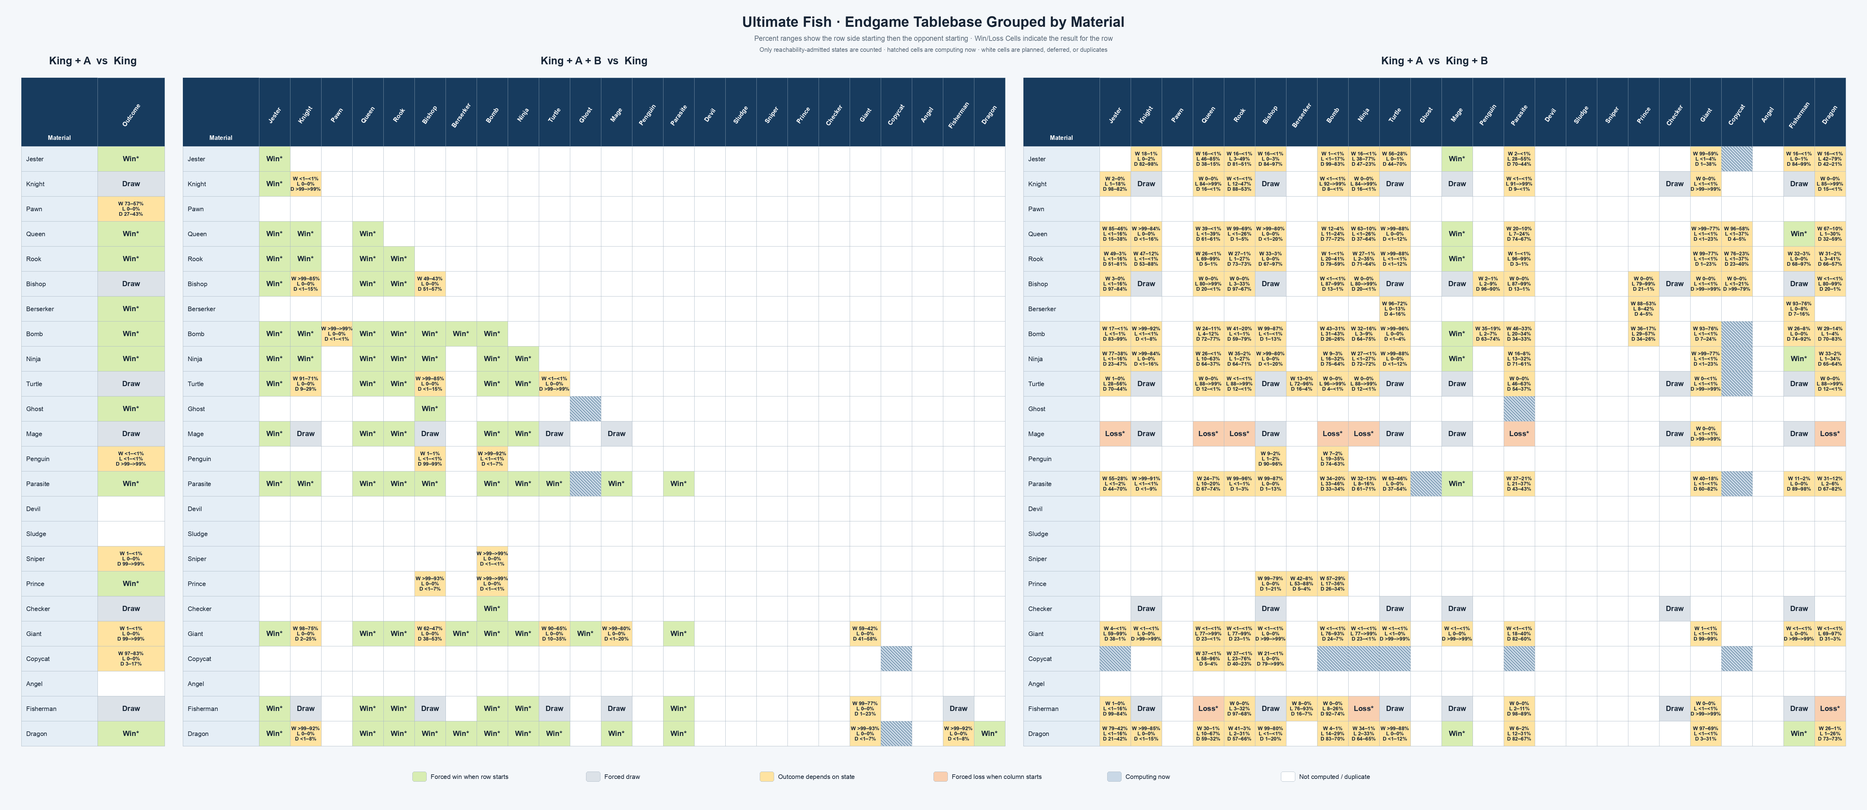
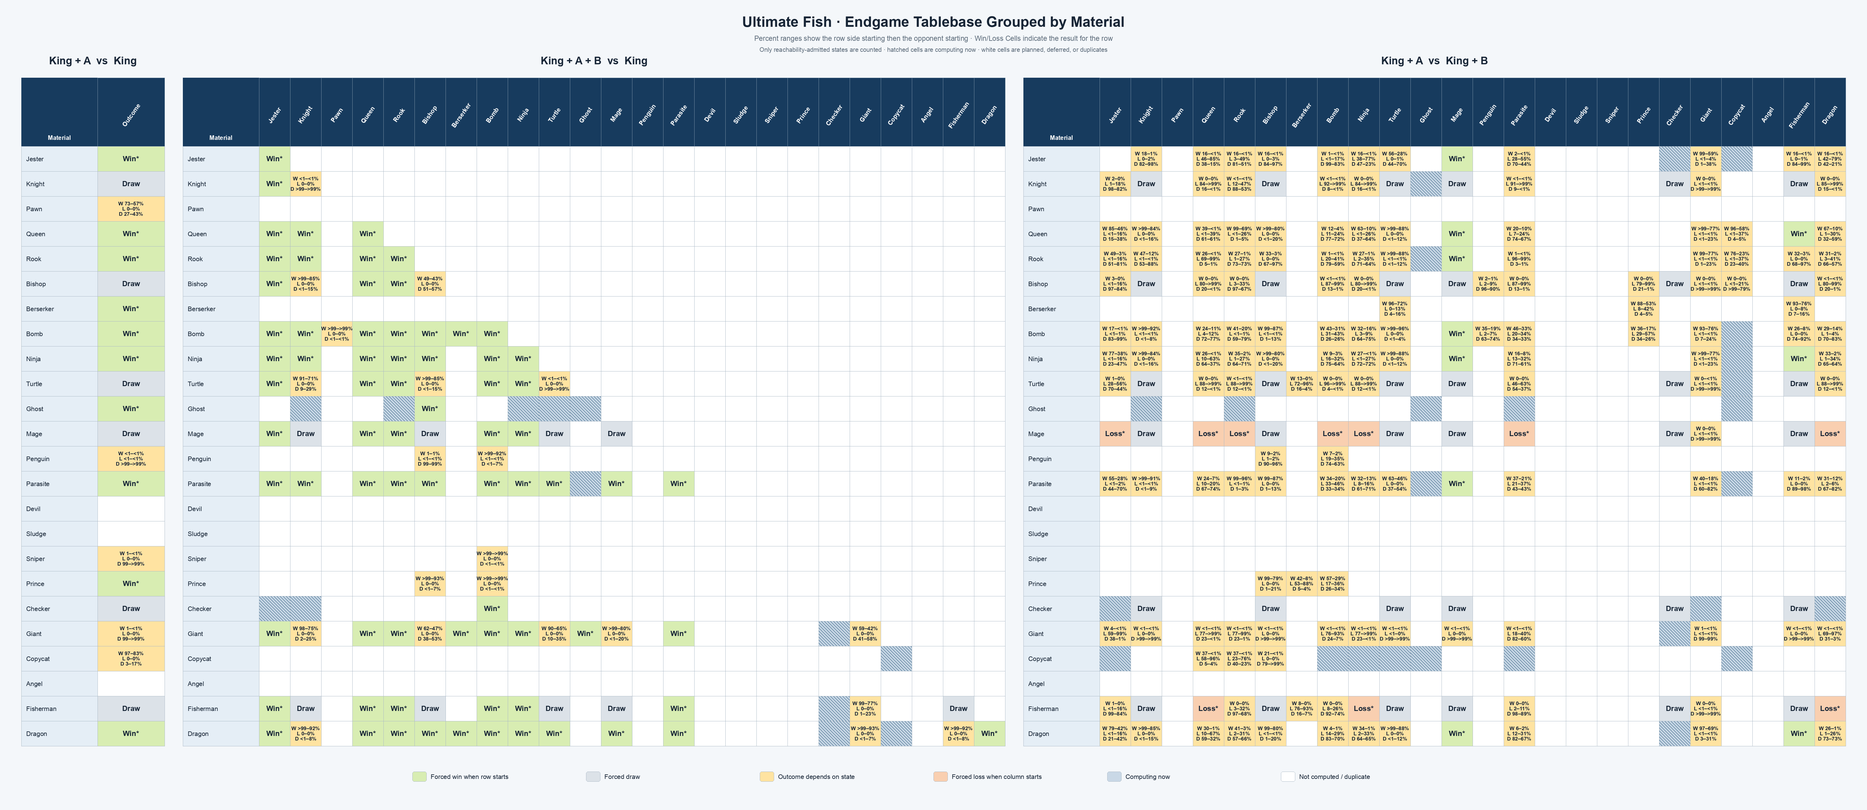
tablebases: reconcile AWS ledger

diff --git a/tablebases/README.md b/tablebases/README.md
@@ -26,7 +26,7 @@ generated exclusively from the canonical ledger below by
 `python3 tools/plot_ultimate_tablebases.py`.
 
 <!-- COMPUTATION_LEDGER_START -->
-Ledger totals: **12 certified**, **186 preserving**, **19 computing**, **34 exact draws**, **221 planned**, **5 blocked**, and **147 deferred**; 624 unique material classes.
+Ledger totals: **12 certified**, **186 preserving**, **36 computing**, **34 exact draws**, **204 planned**, **5 blocked**, and **147 deferred**; 624 unique material classes.
 
 | Key | Class | Domain | File | Status | Indexed states | Result domain | First starts W / L / D | Second starts W / L / D | Reachable / unreachable (first; second) | Canonical storage |
 | --- | --- | --- | --- | --- | ---: | --- | ---: | ---: | ---: | --- |
@@ -72,7 +72,7 @@ Ledger totals: **12 certified**, **186 preserving**, **19 computing**, **34 exac
 | `same:jester+sludge` | King+Jester+Sludge vs King | same | — | **DEFERRED** | — | concrete | — | — | — | — |
 | `same:jester+sniper` | King+Jester+Sniper vs King | same | `kjestersniperk.uftb` | **PLANNED** | 151,831,680 | concrete | — | — | — | — |
 | `same:jester+prince` | King+Jester+Prince vs King | same | `kjesterprincek.uftb` | **PLANNED** | 75,915,840 | concrete | — | — | — | — |
-| `same:jester+checker` | King+Jester+Checker vs King | same | `kjestercheckerk.uftb` | **PLANNED** | 151,831,680 | concrete | — | — | — | — |
+| `same:jester+checker` | King+Jester+Checker vs King | same | `kjestercheckerk.uftb` | **COMPUTING** | 151,831,680 | concrete | — | — | — | — |
 | `same:jester+giant` | King+Jester+Giant vs King | same | `kjestergiantk.uftb` | **PRESERVING** | 37,957,920 | information v2 | 9,347,536 (3,939,164) / 0 / 0 (5,692,260) | 260,316 / 11,300,932 / 1,725,452 (5,692,260) | 9,347,536 / 9,631,424; 13,286,700 / 5,692,260 | S3 preservation pending |
 | `same:jester+copycat` | King+Jester+Copycat vs King | same | `kcopycatjesterk.uftb` | **COMPUTING** | 75,915,840 | concrete | — | — | — | — |
 | `same:jester+angel` | King+Jester+Angel vs King | same | — | **DEFERRED** | — | concrete | — | — | — | — |
@@ -87,7 +87,7 @@ Ledger totals: **12 certified**, **186 preserving**, **19 computing**, **34 exac
 | `same:knight+bomb` | King+Knight+Bomb vs King | same | `kknightbombk.uftb` | **PRESERVING** | 37,957,920 | concrete | 14,179,200 (4,799,760) / 0 / 0 | 0 (1,609,608) / 17,269,780 (67,760) / 31,812 | 14,179,200 / 4,799,760; 17,301,592 / 1,677,368 | S3 preservation pending |
 | `same:knight+ninja` | King+Knight+Ninja vs King | same | `kknightninjak.uftb` | **PRESERVING** | 37,957,920 | concrete | 12,797,612 (6,181,348) / 0 / 0 | 0 (1,609,608) / 16,000,796 / 1,368,556 | 12,797,612 / 6,181,348; 17,369,352 / 1,609,608 | S3 preservation pending |
 | `same:knight+turtle` | King+Knight+Turtle vs King | same | `kknightturtlek.uftb` | **PRESERVING** | 37,957,920 | concrete | 14,093,700 (3,538,608) / 0 / 1,346,652 | 0 (1,609,608) / 12,261,896 / 5,107,456 | 15,440,352 / 3,538,608; 17,369,352 / 1,609,608 | S3 preservation pending |
-| `same:knight+ghost` | King+Knight+Ghost vs King | same | `kknightghostk.uftb` | **PLANNED** | 75,915,840 | concrete | — | — | — | — |
+| `same:knight+ghost` | King+Knight+Ghost vs King | same | `kknightghostk.uftb` | **COMPUTING** | 75,915,840 | concrete | — | — | — | — |
 | `same:knight+mage` | King+Knight+Mage vs King | same | — | **DRAW** | — | insufficient material | 0 / 0 / 1 | 0 / 0 / 1 | closed-form draw | — |
 | `same:knight+penguin` | King+Knight+Penguin vs King | same | `kknightpenguink.uftb` | **PLANNED** | 303,663,360 | concrete | — | — | — | — |
 | `same:knight+parasite` | King+Knight+Parasite vs King | same | `kknightparasitek.uftb` | **PRESERVING** | 37,957,920 | concrete | 14,798,084 (4,180,876) / 0 / 0 | 0 (1,609,608) / 17,364,220 / 5,132 | 14,798,084 / 4,180,876; 17,369,352 / 1,609,608 | S3 preservation pending |
@@ -95,7 +95,7 @@ Ledger totals: **12 certified**, **186 preserving**, **19 computing**, **34 exac
 | `same:knight+sludge` | King+Knight+Sludge vs King | same | — | **DEFERRED** | — | concrete | — | — | — | — |
 | `same:knight+sniper` | King+Knight+Sniper vs King | same | `kknightsniperk.uftb` | **PLANNED** | 151,831,680 | concrete | — | — | — | — |
 | `same:knight+prince` | King+Knight+Prince vs King | same | `kknightprincek.uftb` | **PLANNED** | 75,915,840 | concrete | — | — | — | — |
-| `same:knight+checker` | King+Knight+Checker vs King | same | `kknightcheckerk.uftb` | **PLANNED** | 151,831,680 | concrete | — | — | — | — |
+| `same:knight+checker` | King+Knight+Checker vs King | same | `kknightcheckerk.uftb` | **COMPUTING** | 151,831,680 | concrete | — | — | — | — |
 | `same:knight+giant` | King+Knight+Giant vs King | same | `kknightgiantk.uftb` | **PRESERVING** | 37,957,920 | concrete | 9,415,136 (3,665,112) / 0 / 206,452 (5,692,260) | 0 (1,142,116) / 9,132,192 / 3,012,392 (5,692,260) | 9,621,588 / 9,357,372; 12,144,584 / 6,834,376 | S3 preservation pending |
 | `same:knight+copycat` | King+Knight+Copycat vs King | same | `kcopycatknightk.uftb` | **PLANNED** | 75,915,840 | concrete | — | — | — | — |
 | `same:knight+angel` | King+Knight+Angel vs King | same | — | **DEFERRED** | — | concrete | — | — | — | — |
@@ -150,7 +150,7 @@ Ledger totals: **12 certified**, **186 preserving**, **19 computing**, **34 exac
 | `same:rook+bomb` | King+Rook+Bomb vs King | same | `krookbombk.uftb` | **PRESERVING** | 37,957,920 | concrete | 12,221,516 (6,757,444) / 0 / 0 | 0 (1,609,608) / 17,242,972 (67,760) / 58,620 | 12,221,516 / 6,757,444; 17,301,592 / 1,677,368 | S3 preservation pending |
 | `same:rook+ninja` | King+Rook+Ninja vs King | same | `krookninjak.uftb` | **PRESERVING** | 37,957,920 | concrete | 11,008,382 (7,970,578) / 0 / 0 | 0 (1,609,608) / 17,271,872 / 97,480 | 11,008,382 / 7,970,578; 17,369,352 / 1,609,608 | S3 preservation pending |
 | `same:rook+turtle` | King+Rook+Turtle vs King | same | `krookturtlek.uftb` | **PRESERVING** | 37,957,920 | concrete | 13,353,634 (5,625,326) / 0 / 0 | 0 (1,609,608) / 16,000,700 / 1,368,652 | 13,353,634 / 5,625,326; 17,369,352 / 1,609,608 | S3 preservation pending |
-| `same:rook+ghost` | King+Rook+Ghost vs King | same | `krookghostk.uftb` | **PLANNED** | 75,915,840 | concrete | — | — | — | — |
+| `same:rook+ghost` | King+Rook+Ghost vs King | same | `krookghostk.uftb` | **COMPUTING** | 75,915,840 | concrete | — | — | — | — |
 | `same:rook+mage` | King+Rook+Mage vs King | same | `krookmagek.uftb` | **PRESERVING** | 37,957,920 | concrete | 14,027,524 (4,951,436) / 0 / 0 | 0 (1,609,608) / 15,950,608 / 1,418,744 | 14,027,524 / 4,951,436; 17,369,352 / 1,609,608 | S3 preservation pending |
 | `same:rook+penguin` | King+Rook+Penguin vs King | same | `krookpenguink.uftb` | **PLANNED** | 303,663,360 | concrete | — | — | — | — |
 | `same:rook+parasite` | King+Rook+Parasite vs King | same | `krookparasitek.uftb` | **PRESERVING** | 37,957,920 | concrete | 12,797,700 (6,181,260) / 0 / 0 | 0 (1,609,608) / 17,360,968 / 8,384 | 12,797,700 / 6,181,260; 17,369,352 / 1,609,608 | S3 preservation pending |
@@ -220,7 +220,7 @@ Ledger totals: **12 certified**, **186 preserving**, **19 computing**, **34 exac
 | `same:bomb+dragon` | King+Bomb+Dragon vs King | same | `kbombdragonk.uftb` | **PRESERVING** | 37,957,920 | concrete | 12,346,586 (6,632,374) / 0 / 0 | 0 (1,609,608) / 17,256,790 (67,760) / 44,802 | 12,346,586 / 6,632,374; 17,301,592 / 1,677,368 | S3 preservation pending |
 | `same:ninja+ninja` | King+2 Ninjas vs King | same | `kninjaninjak.uftb` | **PRESERVING** | 18,978,960 | concrete | 5,424,306 (4,065,174) / 0 / 0 | 0 (804,804) / 8,609,904 / 74,772 | 5,424,306 / 4,065,174; 8,684,676 / 804,804 | S3 preservation pending |
 | `same:ninja+turtle` | King+Ninja+Turtle vs King | same | `kninjaturtlek.uftb` | **PRESERVING** | 37,957,920 | concrete | 13,095,300 (5,883,660) / 0 / 0 | 0 (1,609,608) / 15,961,482 / 1,407,870 | 13,095,300 / 5,883,660; 17,369,352 / 1,609,608 | S3 preservation pending |
-| `same:ninja+ghost` | King+Ninja+Ghost vs King | same | `kninjaghostk.uftb` | **PLANNED** | 75,915,840 | concrete | — | — | — | — |
+| `same:ninja+ghost` | King+Ninja+Ghost vs King | same | `kninjaghostk.uftb` | **COMPUTING** | 75,915,840 | concrete | — | — | — | — |
 | `same:ninja+mage` | King+Ninja+Mage vs King | same | `kninjamagek.uftb` | **PRESERVING** | 37,957,920 | concrete | 13,719,860 (5,259,100) / 0 / 0 | 0 (1,609,608) / 15,914,976 / 1,454,376 | 13,719,860 / 5,259,100; 17,369,352 / 1,609,608 | S3 preservation pending |
 | `same:ninja+penguin` | King+Ninja+Penguin vs King | same | `kninjapenguink.uftb` | **PLANNED** | 303,663,360 | concrete | — | — | — | — |
 | `same:ninja+parasite` | King+Ninja+Parasite vs King | same | `kninjaparasitek.uftb` | **PRESERVING** | 37,957,920 | concrete | 12,548,400 (6,430,560) / 0 / 0 | 0 (1,609,608) / 17,313,736 / 55,616 | 12,548,400 / 6,430,560; 17,369,352 / 1,609,608 | S3 preservation pending |
@@ -235,7 +235,7 @@ Ledger totals: **12 certified**, **186 preserving**, **19 computing**, **34 exac
 | `same:ninja+fisherman` | King+Ninja+Fisherman vs King | same | `kninjafishermank.uftb` | **PRESERVING** | 37,957,920 | concrete | 13,719,860 (5,259,100) / 0 / 0 | 0 (1,609,608) / 15,914,976 / 1,454,376 | 13,719,860 / 5,259,100; 17,369,352 / 1,609,608 | S3 preservation pending |
 | `same:ninja+dragon` | King+Ninja+Dragon vs King | same | `kninjadragonk.uftb` | **PRESERVING** | 37,957,920 | concrete | 11,131,336 (7,847,624) / 0 / 0 | 0 (1,609,608) / 17,252,356 / 116,996 | 11,131,336 / 7,847,624; 17,369,352 / 1,609,608 | S3 preservation pending |
 | `same:turtle+turtle` | King+2 Turtles vs King | same | `kturtleturtlek.uftb` | **PRESERVING** | 18,978,960 | concrete | 440 (1,578,876) / 0 / 7,910,164 | 0 (804,804) / 416 / 8,684,260 | 7,910,604 / 1,578,876; 8,684,676 / 804,804 | S3 preservation pending |
-| `same:turtle+ghost` | King+Turtle+Ghost vs King | same | `kturtleghostk.uftb` | **PLANNED** | 75,915,840 | concrete | — | — | — | — |
+| `same:turtle+ghost` | King+Turtle+Ghost vs King | same | `kturtleghostk.uftb` | **COMPUTING** | 75,915,840 | concrete | — | — | — | — |
 | `same:turtle+mage` | King+Turtle+Mage vs King | same | — | **DRAW** | — | insufficient material | 0 / 0 / 1 | 0 / 0 / 1 | closed-form draw | — |
 | `same:turtle+penguin` | King+Turtle+Penguin vs King | same | `kturtlepenguink.uftb` | **PLANNED** | 303,663,360 | concrete | — | — | — | — |
 | `same:turtle+parasite` | King+Turtle+Parasite vs King | same | `kturtleparasitek.uftb` | **PRESERVING** | 37,957,920 | concrete | 15,158,912 (3,820,048) / 0 / 0 | 0 (1,609,608) / 17,364,876 / 4,476 | 15,158,912 / 3,820,048; 17,369,352 / 1,609,608 | S3 preservation pending |
@@ -259,7 +259,7 @@ Ledger totals: **12 certified**, **186 preserving**, **19 computing**, **34 exac
 | `same:ghost+prince` | King+Ghost+Prince vs King | same | `kghostprincek.uftb` | **PLANNED** | 151,831,680 | concrete | — | — | — | — |
 | `same:ghost+checker` | King+Ghost+Checker vs King | same | `kghostcheckerk.uftb` | **PLANNED** | 303,663,360 | concrete | — | — | — | — |
 | `same:ghost+giant` | King+Ghost+Giant vs King | same | `kghostgiantk.uftb` | **CERTIFIED** | 75,915,840 | information v2 | 19,660,036 (6,913,364) / 0 / 0 (11,384,520) | 0 (2,284,232) / 22,395,792 (1,049,920) / 842,184 (11,385,792) | 19,660,036 / 18,297,884; 23,237,976 / 14,719,944 | S3 info `12e08614…` / `ipoEi8SHEt7PTaYiM0B2WjJEXiW.ZPS6` |
-| `same:ghost+copycat` | King+Ghost+Copycat vs King | same | `kcopycatghostk.uftb` | **PLANNED** | 151,831,680 | concrete | — | — | — | — |
+| `same:ghost+copycat` | King+Ghost+Copycat vs King | same | `kcopycatghostk.uftb` | **COMPUTING** | 151,831,680 | concrete | — | — | — | — |
 | `same:ghost+angel` | King+Ghost+Angel vs King | same | — | **DEFERRED** | — | concrete | — | — | — | — |
 | `same:ghost+fisherman` | King+Ghost+Fisherman vs King | same | `kghostfishermank.uftb` | **PLANNED** | 75,915,840 | information required | — | — | — | — |
 | `same:ghost+dragon` | King+Ghost+Dragon vs King | same | `kghostdragonk.uftb` | **PLANNED** | 75,915,840 | information required | — | — | — | — |
@@ -334,11 +334,11 @@ Ledger totals: **12 certified**, **186 preserving**, **19 computing**, **34 exac
 | `same:prince+fisherman` | King+Prince+Fisherman vs King | same | `kprincefishermank.uftb` | **PLANNED** | 75,915,840 | concrete | — | — | — | — |
 | `same:prince+dragon` | King+Prince+Dragon vs King | same | `kprincedragonk.uftb` | **PLANNED** | 75,915,840 | concrete | — | — | — | — |
 | `same:checker+checker` | King+2 Checkers vs King | same | `kcheckercheckerk.uftb` | **PLANNED** | 303,663,360 | concrete | — | — | — | — |
-| `same:checker+giant` | King+Checker+Giant vs King | same | `kcheckergiantk.uftb` | **PLANNED** | 151,831,680 | concrete | — | — | — | — |
+| `same:checker+giant` | King+Checker+Giant vs King | same | `kcheckergiantk.uftb` | **COMPUTING** | 151,831,680 | concrete | — | — | — | — |
 | `same:checker+copycat` | King+Checker+Copycat vs King | same | `kcopycatcheckerk.uftb` | **PLANNED** | 303,663,360 | concrete | — | — | — | — |
 | `same:checker+angel` | King+Checker+Angel vs King | same | — | **DEFERRED** | — | concrete | — | — | — | — |
-| `same:checker+fisherman` | King+Checker+Fisherman vs King | same | `kcheckerfishermank.uftb` | **PLANNED** | 151,831,680 | concrete | — | — | — | — |
-| `same:checker+dragon` | King+Checker+Dragon vs King | same | `kcheckerdragonk.uftb` | **PLANNED** | 151,831,680 | concrete | — | — | — | — |
+| `same:checker+fisherman` | King+Checker+Fisherman vs King | same | `kcheckerfishermank.uftb` | **COMPUTING** | 151,831,680 | concrete | — | — | — | — |
+| `same:checker+dragon` | King+Checker+Dragon vs King | same | `kcheckerdragonk.uftb` | **COMPUTING** | 151,831,680 | concrete | — | — | — | — |
 | `same:giant+giant` | King+2 Giants vs King | same | `kgiantgiantk.uftb` | **PRESERVING** | 18,978,960 | concrete | 1,713,626 (1,555,208) / 0 / 1,196,498 (5,024,148) | 0 (389,094) / 1,722,850 / 2,353,388 (5,024,148) | 2,910,124 / 6,579,356; 4,076,238 / 5,413,242 | S3 preservation pending |
 | `same:giant+copycat` | King+Giant+Copycat vs King | same | `kcopycatgiantk.uftb` | **COMPUTING** | 75,915,840 | concrete | — | — | — | — |
 | `same:giant+angel` | King+Giant+Angel vs King | same | — | **DEFERRED** | — | concrete | — | — | — | — |
@@ -372,7 +372,7 @@ Ledger totals: **12 certified**, **186 preserving**, **19 computing**, **34 exac
 | `opposed:jester+sludge` | King+Jester vs King+Sludge | opposed | — | **DEFERRED** | — | concrete | — | — | — | — |
 | `opposed:jester+sniper` | King+Jester vs King+Sniper | opposed | `kjesterksniper.uftb` | **PLANNED** | 151,831,680 | concrete | — | — | — | — |
 | `opposed:jester+prince` | King+Jester vs King+Prince | opposed | `kjesterkprince.uftb` | **PLANNED** | 75,915,840 | concrete | — | — | — | — |
-| `opposed:jester+checker` | King+Jester vs King+Checker | opposed | `kjesterkchecker.uftb` | **PLANNED** | 151,831,680 | concrete | — | — | — | — |
+| `opposed:jester+checker` | King+Jester vs King+Checker | opposed | `kjesterkchecker.uftb` | **COMPUTING** | 151,831,680 | concrete | — | — | — | — |
 | `opposed:jester+giant` | King+Jester vs King+Giant | opposed | `kjesterkgiant.uftb` | **PRESERVING** | 37,957,920 | information v2 | 10,988,108 (2,193,308) / 32 / 105,252 (5,692,260) | 516,144 / 7,775,374 / 4,995,182 (5,692,260) | 11,093,392 / 7,885,568; 13,286,700 / 5,692,260 | S3 preservation pending |
 | `opposed:jester+copycat` | King+Jester vs King+Copycat | opposed | `kcopycatkjester.uftb` | **COMPUTING** | 75,915,840 | concrete | — | — | — | — |
 | `opposed:jester+angel` | King+Jester vs King+Angel | opposed | — | **DEFERRED** | — | concrete | — | — | — | — |
@@ -387,7 +387,7 @@ Ledger totals: **12 certified**, **186 preserving**, **19 computing**, **34 exac
 | `opposed:knight+bomb` | King+Knight vs King+Bomb | opposed | `kknightkbomb.uftb` | **PRESERVING** | 37,957,920 | concrete | 264 (2,903,040) / 14,748,000 (62,768) / 1,264,888 | 15,062,940 (3,846,020) / 52 / 69,944 (4) | 16,013,152 / 2,965,808; 15,132,936 / 3,846,024 | S3 preservation pending |
 | `opposed:knight+ninja` | King+Knight vs King+Ninja | opposed | `kknightkninja.uftb` | **PRESERVING** | 37,957,920 | concrete | 0 (2,808,960) / 13,522,364 / 2,647,636 | 13,657,124 (5,259,100) / 0 / 62,736 | 16,170,000 / 2,808,960; 13,719,860 / 5,259,100 | S3 preservation pending |
 | `opposed:knight+turtle` | King+Knight vs King+Turtle | opposed | — | **DRAW** | — | insufficient material | 0 / 0 / 1 | 0 / 0 / 1 | closed-form draw | — |
-| `opposed:knight+ghost` | King+Knight vs King+Ghost | opposed | `kknightkghost.uftb` | **PLANNED** | 75,915,840 | concrete | — | — | — | — |
+| `opposed:knight+ghost` | King+Knight vs King+Ghost | opposed | `kknightkghost.uftb` | **COMPUTING** | 75,915,840 | concrete | — | — | — | — |
 | `opposed:knight+mage` | King+Knight vs King+Mage | opposed | — | **DRAW** | — | insufficient material | 0 / 0 / 1 | 0 / 0 / 1 | closed-form draw | — |
 | `opposed:knight+penguin` | King+Knight vs King+Penguin | opposed | `kknightkpenguin.uftb` | **PLANNED** | 303,663,360 | concrete | — | — | — | — |
 | `opposed:knight+parasite` | King+Knight vs King+Parasite | opposed | `kknightkparasite.uftb` | **PRESERVING** | 37,957,920 | concrete | 20 (2,808,960) / 14,791,096 / 1,378,884 | 15,817,696 (3,093,244) / 4 / 68,016 | 16,170,000 / 2,808,960; 15,885,716 / 3,093,244 | S3 preservation pending |
@@ -450,7 +450,7 @@ Ledger totals: **12 certified**, **186 preserving**, **19 computing**, **34 exac
 | `opposed:rook+bomb` | King+Rook vs King+Bomb | opposed | `krookkbomb.uftb` | **PRESERVING** | 37,957,920 | concrete | 91,214 (5,176,766) / 2,816,466 (54,846) / 10,838,228 (1,440) | 6,144,700 (3,844,836) / 15,106 (8) / 8,973,130 (1,180) | 13,745,908 / 5,233,052; 15,132,936 / 3,846,024 | S3 preservation pending |
 | `opposed:rook+ninja` | King+Rook vs King+Ninja | opposed | `krookkninja.uftb` | **PRESERVING** | 37,957,920 | concrete | 3,833,886 (4,951,436) / 275,140 / 9,918,498 | 4,742,502 (5,259,100) / 131,520 / 8,845,838 | 14,027,524 / 4,951,436; 13,719,860 / 5,259,100 | S3 preservation pending |
 | `opposed:rook+turtle` | King+Rook vs King+Turtle | opposed | `krookkturtle.uftb` | **PRESERVING** | 37,957,920 | concrete | 14,003,804 (4,951,436) / 4 / 23,716 | 4 (2,397,164) / 14,534,220 / 2,047,572 | 14,027,524 / 4,951,436; 16,581,796 / 2,397,164 | S3 preservation pending |
-| `opposed:rook+ghost` | King+Rook vs King+Ghost | opposed | `krookkghost.uftb` | **PLANNED** | 75,915,840 | concrete | — | — | — | — |
+| `opposed:rook+ghost` | King+Rook vs King+Ghost | opposed | `krookkghost.uftb` | **COMPUTING** | 75,915,840 | concrete | — | — | — | — |
 | `opposed:rook+mage` | King+Rook vs King+Mage | opposed | `krookkmage.uftb` | **PRESERVING** | 37,957,920 | concrete | 14,027,524 (4,951,436) / 0 / 0 | 0 (1,609,608) / 15,952,876 / 1,416,476 | 14,027,524 / 4,951,436; 17,369,352 / 1,609,608 | S3 preservation pending |
 | `opposed:rook+penguin` | King+Rook vs King+Penguin | opposed | `krookkpenguin.uftb` | **PLANNED** | 303,663,360 | concrete | — | — | — | — |
 | `opposed:rook+parasite` | King+Rook vs King+Parasite | opposed | `krookkparasite.uftb` | **PRESERVING** | 37,957,920 | concrete | 100,882 (4,951,436) / 13,479,612 / 447,030 | 15,715,312 (3,093,244) / 17,690 / 152,714 | 14,027,524 / 4,951,436; 15,885,716 / 3,093,244 | S3 preservation pending |
@@ -549,7 +549,7 @@ Ledger totals: **12 certified**, **186 preserving**, **19 computing**, **34 exac
 | `opposed:turtle+angel` | King+Turtle vs King+Angel | opposed | — | **DEFERRED** | — | concrete | — | — | — | — |
 | `opposed:turtle+fisherman` | King+Turtle vs King+Fisherman | opposed | — | **DRAW** | — | insufficient material | 0 / 0 / 1 | 0 / 0 / 1 | closed-form draw | — |
 | `opposed:turtle+dragon` | King+Turtle vs King+Dragon | opposed | `kturtlekdragon.uftb` | **PRESERVING** | 37,957,920 | concrete | 0 (2,397,164) / 14,530,158 / 2,051,638 | 14,056,448 (4,893,140) / 0 / 29,372 | 16,581,796 / 2,397,164; 14,085,820 / 4,893,140 | S3 preservation pending |
-| `opposed:ghost+ghost` | King+Ghost vs King+Ghost | opposed | `kghostkghost.uftb` | **PLANNED** | 151,831,680 | concrete | — | — | — | — |
+| `opposed:ghost+ghost` | King+Ghost vs King+Ghost | opposed | `kghostkghost.uftb` | **COMPUTING** | 151,831,680 | concrete | — | — | — | — |
 | `opposed:ghost+mage` | King+Ghost vs King+Mage | opposed | `kghostkmage.uftb` | **PLANNED** | 75,915,840 | information required | — | — | — | — |
 | `opposed:ghost+penguin` | King+Ghost vs King+Penguin | opposed | `kghostkpenguin.uftb` | **PLANNED** | 607,326,720 | concrete | — | — | — | — |
 | `opposed:ghost+parasite` | King+Ghost vs King+Parasite | opposed | `kghostkparasite.uftb` | **COMPUTING** | 75,915,840 | information required | — | — | — | — |
@@ -559,7 +559,7 @@ Ledger totals: **12 certified**, **186 preserving**, **19 computing**, **34 exac
 | `opposed:ghost+prince` | King+Ghost vs King+Prince | opposed | `kghostkprince.uftb` | **PLANNED** | 151,831,680 | concrete | — | — | — | — |
 | `opposed:ghost+checker` | King+Ghost vs King+Checker | opposed | `kghostkchecker.uftb` | **PLANNED** | 303,663,360 | concrete | — | — | — | concrete S3 `6166644c…` / `g2ZfdZC3PS4PAyhGElYcMa0TKWDoa4AZ`; information pending |
 | `opposed:ghost+giant` | King+Ghost vs King+Giant | opposed | `kghostkgiant.uftb` | **BLOCKED** | 75,915,840 | information required | — | — | — | — |
-| `opposed:ghost+copycat` | King+Ghost vs King+Copycat | opposed | `kcopycatkghost.uftb` | **PLANNED** | 151,831,680 | concrete | — | — | — | — |
+| `opposed:ghost+copycat` | King+Ghost vs King+Copycat | opposed | `kcopycatkghost.uftb` | **COMPUTING** | 151,831,680 | concrete | — | — | — | — |
 | `opposed:ghost+angel` | King+Ghost vs King+Angel | opposed | — | **DEFERRED** | — | concrete | — | — | — | — |
 | `opposed:ghost+fisherman` | King+Ghost vs King+Fisherman | opposed | `kghostkfisherman.uftb` | **PLANNED** | 75,915,840 | information required | — | — | — | — |
 | `opposed:ghost+dragon` | King+Ghost vs King+Dragon | opposed | `kghostkdragon.uftb` | **PLANNED** | 75,915,840 | information required | — | — | — | — |
@@ -634,11 +634,11 @@ Ledger totals: **12 certified**, **186 preserving**, **19 computing**, **34 exac
 | `opposed:prince+fisherman` | King+Prince vs King+Fisherman | opposed | `kprincekfisherman.uftb` | **PLANNED** | 75,915,840 | concrete | — | — | — | — |
 | `opposed:prince+dragon` | King+Prince vs King+Dragon | opposed | `kprincekdragon.uftb` | **PLANNED** | 75,915,840 | concrete | — | — | — | — |
 | `opposed:checker+checker` | King+Checker vs King+Checker | opposed | — | **DRAW** | — | insufficient material | 0 / 0 / 1 | 0 / 0 / 1 | closed-form draw | — |
-| `opposed:checker+giant` | King+Checker vs King+Giant | opposed | `kcheckerkgiant.uftb` | **PLANNED** | 151,831,680 | concrete | — | — | — | — |
+| `opposed:checker+giant` | King+Checker vs King+Giant | opposed | `kcheckerkgiant.uftb` | **COMPUTING** | 151,831,680 | concrete | — | — | — | — |
 | `opposed:checker+copycat` | King+Checker vs King+Copycat | opposed | `kcopycatkchecker.uftb` | **PLANNED** | 303,663,360 | concrete | — | — | — | — |
 | `opposed:checker+angel` | King+Checker vs King+Angel | opposed | — | **DEFERRED** | — | concrete | — | — | — | — |
 | `opposed:checker+fisherman` | King+Checker vs King+Fisherman | opposed | — | **DRAW** | — | insufficient material | 0 / 0 / 1 | 0 / 0 / 1 | closed-form draw | — |
-| `opposed:checker+dragon` | King+Checker vs King+Dragon | opposed | `kcheckerkdragon.uftb` | **PLANNED** | 151,831,680 | concrete | — | — | — | — |
+| `opposed:checker+dragon` | King+Checker vs King+Dragon | opposed | `kcheckerkdragon.uftb` | **COMPUTING** | 151,831,680 | concrete | — | — | — | — |
 | `opposed:giant+giant` | King+Giant vs King+Giant | opposed | `kgiantkgiant.uftb` | **PRESERVING** | 37,957,920 | concrete | 35,570 (2,060,572) / 15,798 / 6,818,724 (10,048,296) | 34,000 (2,060,572) / 15,770 / 6,820,322 (10,048,296) | 6,870,092 / 12,108,868; 6,870,092 / 12,108,868 | S3 preservation pending |
 | `opposed:giant+copycat` | King+Giant vs King+Copycat | opposed | `kcopycatkgiant.uftb` | **PLANNED** | 75,915,840 | concrete | — | — | — | — |
 | `opposed:giant+angel` | King+Giant vs King+Angel | opposed | — | **DEFERRED** | — | concrete | — | — | — | — |
